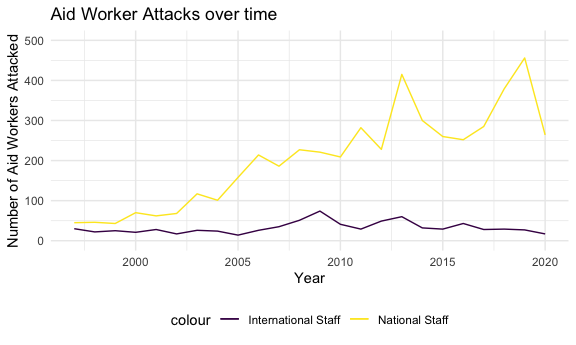
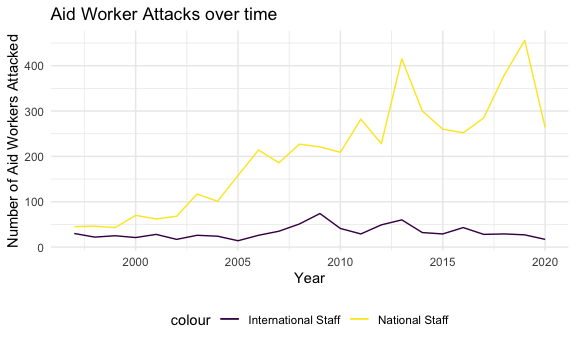
kidnappings and types of attacks

diff --git a/section-1.md b/section-1.md
@@ -92,7 +92,7 @@ aidworker_df =
 aidworker_df = 
 distinct(aidworker_df) 
 
-aidworker_tidy_df =
+aidworker_df =
   aidworker_df %>% 
   janitor::clean_names() %>% 
   mutate(intl_org_affected = 
@@ -124,12 +124,10 @@ Brennan notes:
   - if happy with cleaning, we can rename the `aidworker_tidy_df` as
     just `aidworker_df`
 
-## EDA of Attack patterns: International vs National
-
-### Look at frequency of attacks on various types of organizations
+### Look at frequency of attacks on staff of various types of organizations
 
 ``` r
-aidworker_tidy_df %>% 
+aidworker_df %>% 
   ggplot(aes(x = intl_org_affected)) + 
   geom_bar()
 ```
@@ -142,7 +140,7 @@ conceptually a lot, any ideas?
 ### International vs National staff attacks
 
 ``` r
-aidworker_tidy_df %>%
+aidworker_df %>%
   group_by(year) %>% 
   summarize(tot_national = sum(total_national_staff),
             tot_intl = sum(total_international_staff),
@@ -185,7 +183,7 @@ aidworker_tidy_df %>%
 ``` r
 ## If look at last row of data, appears "NA" is the total
 
-aidworker_tidy_df %>%
+aidworker_df %>%
   group_by(year) %>% 
   summarize(tot_national = sum(total_national_staff),
             tot_intl = sum(total_international_staff),
@@ -207,7 +205,8 @@ been higher than internationals, with increasing percentage of national
 staff attacked over time.
 
 ``` r
-aidworker_tidy_df %>% 
+aidworker_df %>% 
+  drop_na(year) %>% 
   group_by(year) %>% 
    summarize(tot_national = sum(total_national_staff),
             tot_intl = sum(total_international_staff),
@@ -215,7 +214,6 @@ aidworker_tidy_df %>%
   ggplot(aes(x = year)) + 
   geom_line(aes(y = tot_national, color = "National Staff")) + 
   geom_line(aes(y = tot_intl, color = "International Staff")) + 
-  ylim(0, 500) + 
   labs(title = "Aid Worker Attacks over time",
        x = "Year",
        y = "Number of Aid Workers Attacked")
@@ -223,11 +221,64 @@ aidworker_tidy_df %>%
 
     ## `summarise()` ungrouping output (override with `.groups` argument)
 
-    ## Warning: Removed 1 row(s) containing missing values (geom_path).
-    
-    ## Warning: Removed 1 row(s) containing missing values (geom_path).
-
 <img src="section-1_files/figure-gfm/unnamed-chunk-3-1.png" width="90%" />
 
 Number of aid worker attacks are increasing over time, especially among
 national staff.
+
+### Type of Attack
+
+``` r
+aidworker_df %>% 
+  filter(means_of_attack == "Kidnapping") %>% 
+  group_by(year) %>% 
+  summarize(tot_national = sum(total_national_staff),
+            tot_intl = sum(total_international_staff),
+            tot_both = sum(total_victims)) %>% 
+  ggplot(aes(x = year)) + 
+  geom_line(aes(y = tot_national, color = "National Staff")) + 
+  geom_line(aes(y = tot_intl, color = "International Staff")) + 
+  labs(title = "Aid Worker Kidnapping over time",
+       x = "Year",
+       y = "Number of Aid Workers Kidnapped")
+```
+
+    ## `summarise()` ungrouping output (override with `.groups` argument)
+
+<img src="section-1_files/figure-gfm/unnamed-chunk-4-1.png" width="90%" />
+
+Kidnapping also increasing over time, particularly among national staff.
+Could put this side-by-side the total attack line plot.
+
+#### Attempts to visualize type of attack over time - failed so far
+
+``` r
+aidworker_df %>% 
+  drop_na(year) %>% 
+  group_by(year, means_of_attack) %>% 
+  ggplot(aes(x = year, y = total_victims, color = means_of_attack)) + 
+  geom_point()
+```
+
+<img src="section-1_files/figure-gfm/unnamed-chunk-5-1.png" width="90%" />
+
+Above is not good.
+
+``` r
+aidworker_df %>% 
+  drop_na(year) %>% 
+  group_by(year, means_of_attack) %>% 
+  filter(year == 2020) %>% 
+  ggplot(aes(x = means_of_attack, fill = means_of_attack)) + 
+  geom_bar()
+```
+
+<img src="section-1_files/figure-gfm/unnamed-chunk-6-1.png" width="90%" />
+
+I like this bar chart, but I think ‘count’ is the number of incidents,
+not the number of people affected. Would be really cool if this could be
+a shiny plot where could change year in a drop down to see how this
+changes over time? Or make a plotly so that you can hover over label to
+see number of intl/natl affected by each type of attack?
+
+I’m not sure how to make those things work though.
